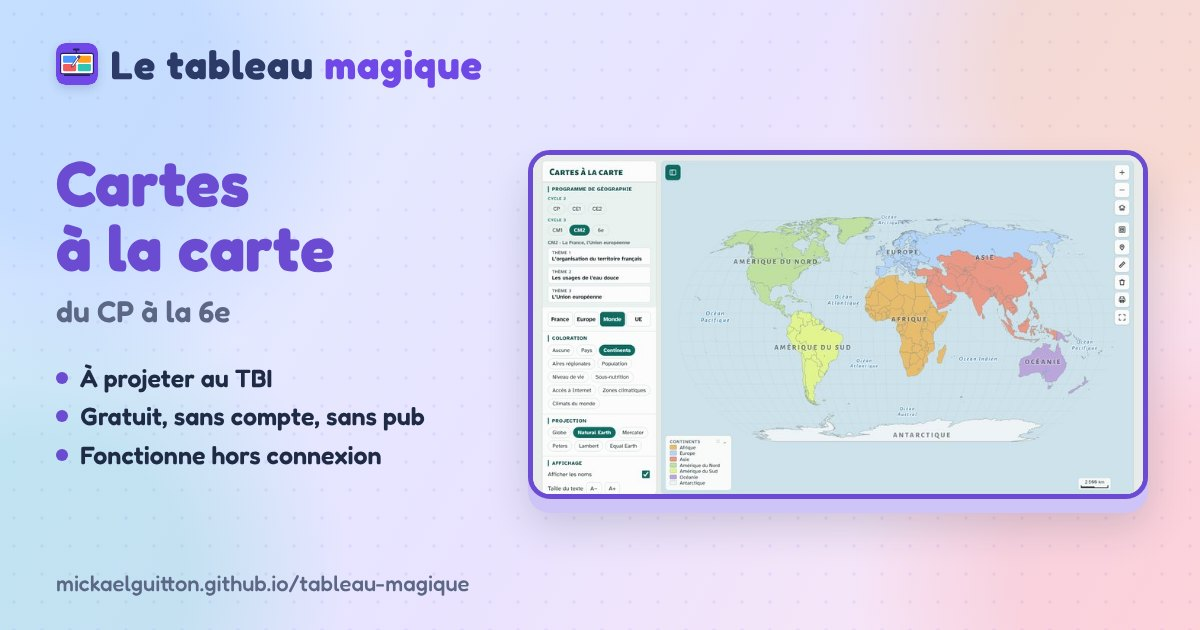
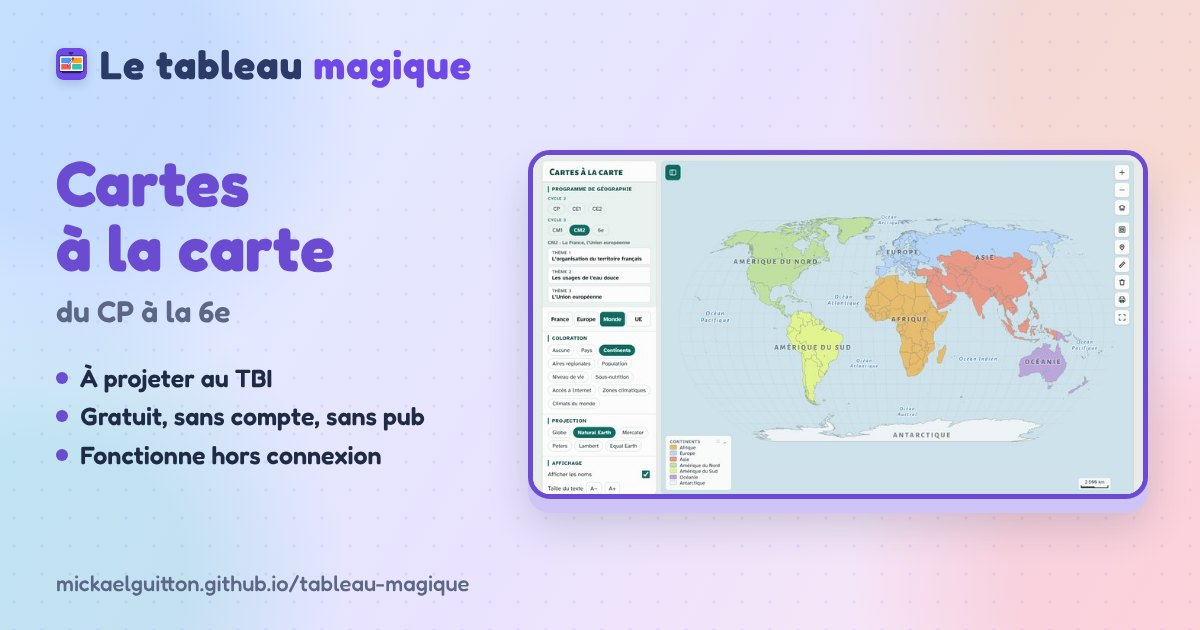
Portail v3.2 : icône plus petite devant le titre (page d'accueil et images de partage)
Claude-Session: https://claude.ai/code/session_01Te8xrvMufWVNSVLdwnm9Mc

Changed region(s): [[0.0308, 0.0603, 0.4008, 0.1508]]

diff --git a/index.html b/index.html
@@ -71,7 +71,7 @@
   }
   h1 .magique{color:#7048E8}
   /* Icône du portail devant le titre (la même que l'appli installée) */
-  h1 .icone-titre{height:1.05em;width:auto;vertical-align:-.17em;margin-right:.3em;border-radius:22%;
+  h1 .icone-titre{height:.78em;width:auto;vertical-align:-.06em;margin-right:.28em;border-radius:22%;
     box-shadow:0 4px 10px rgba(43,58,103,.18)}
   #accroche{
     font-size:clamp(14px,min(2vw,2.8vh),24px);font-weight:500;color:#5A6488;
